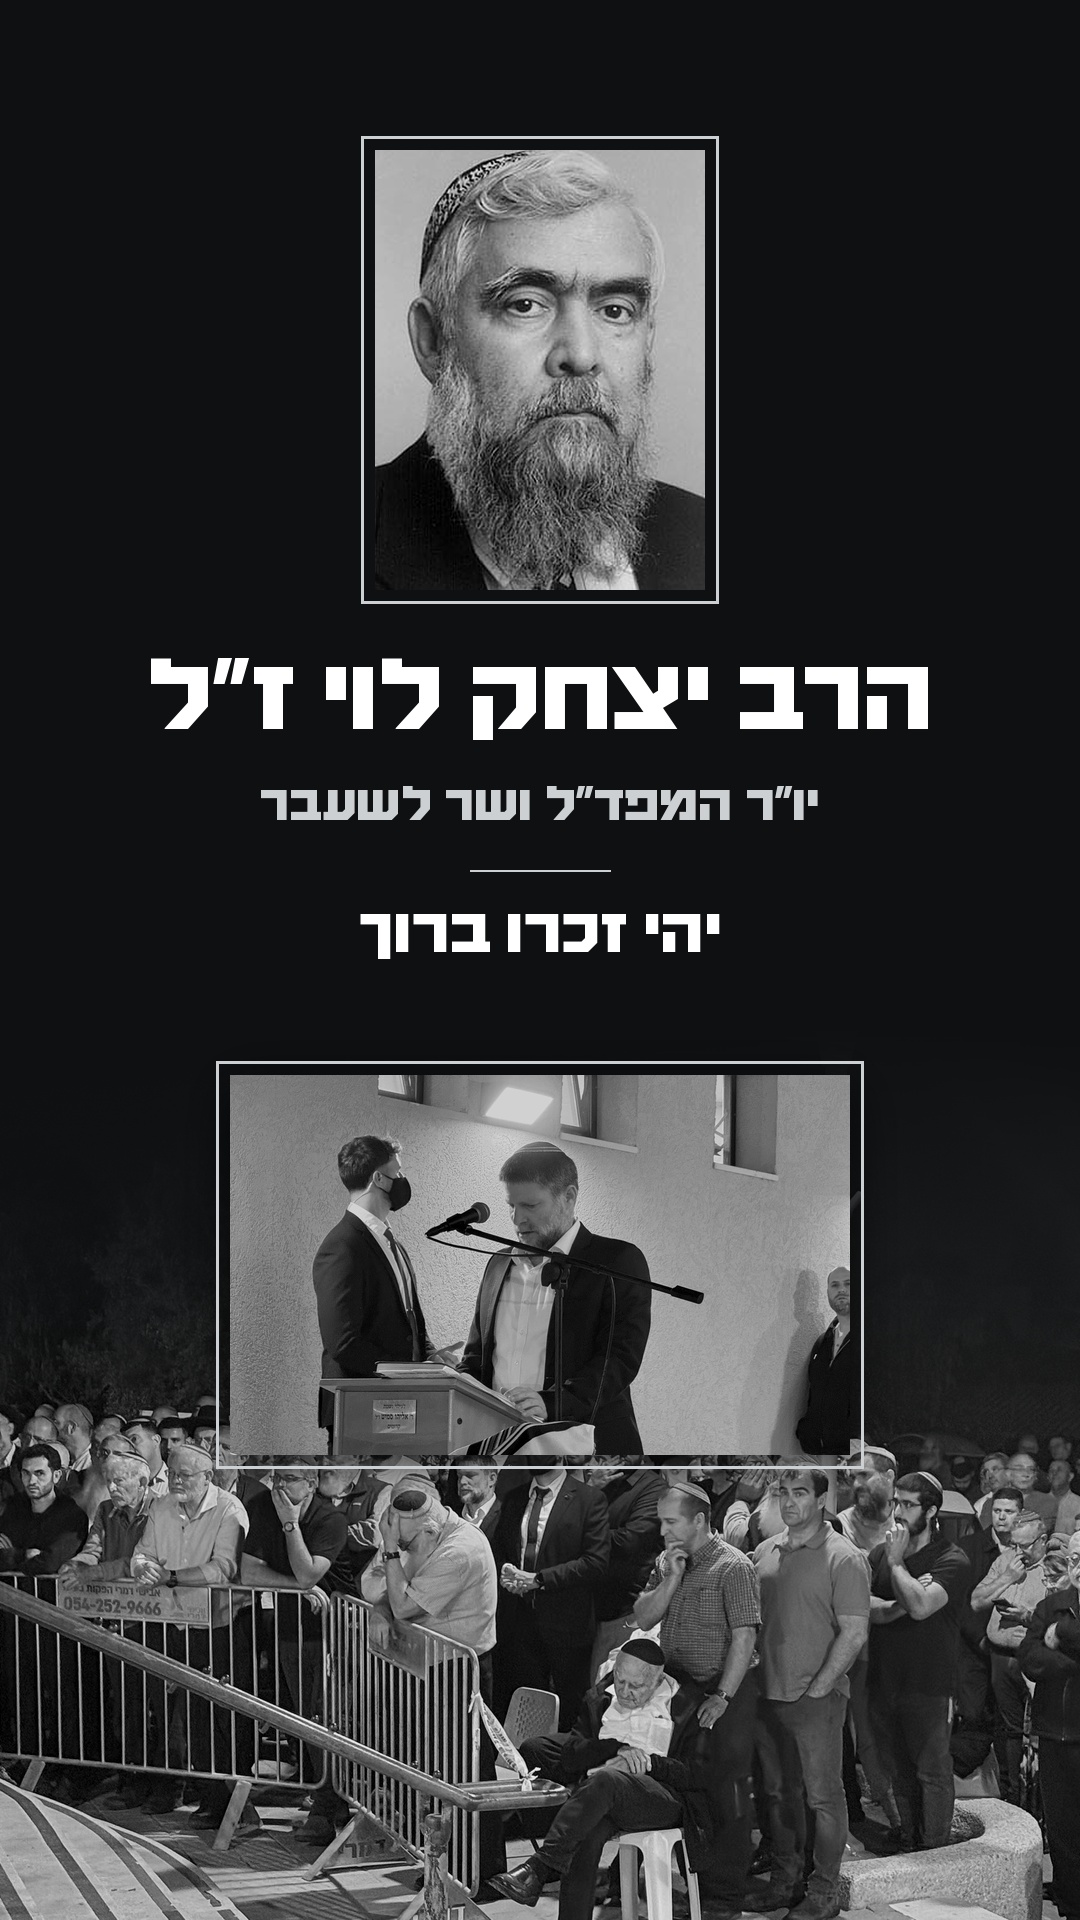
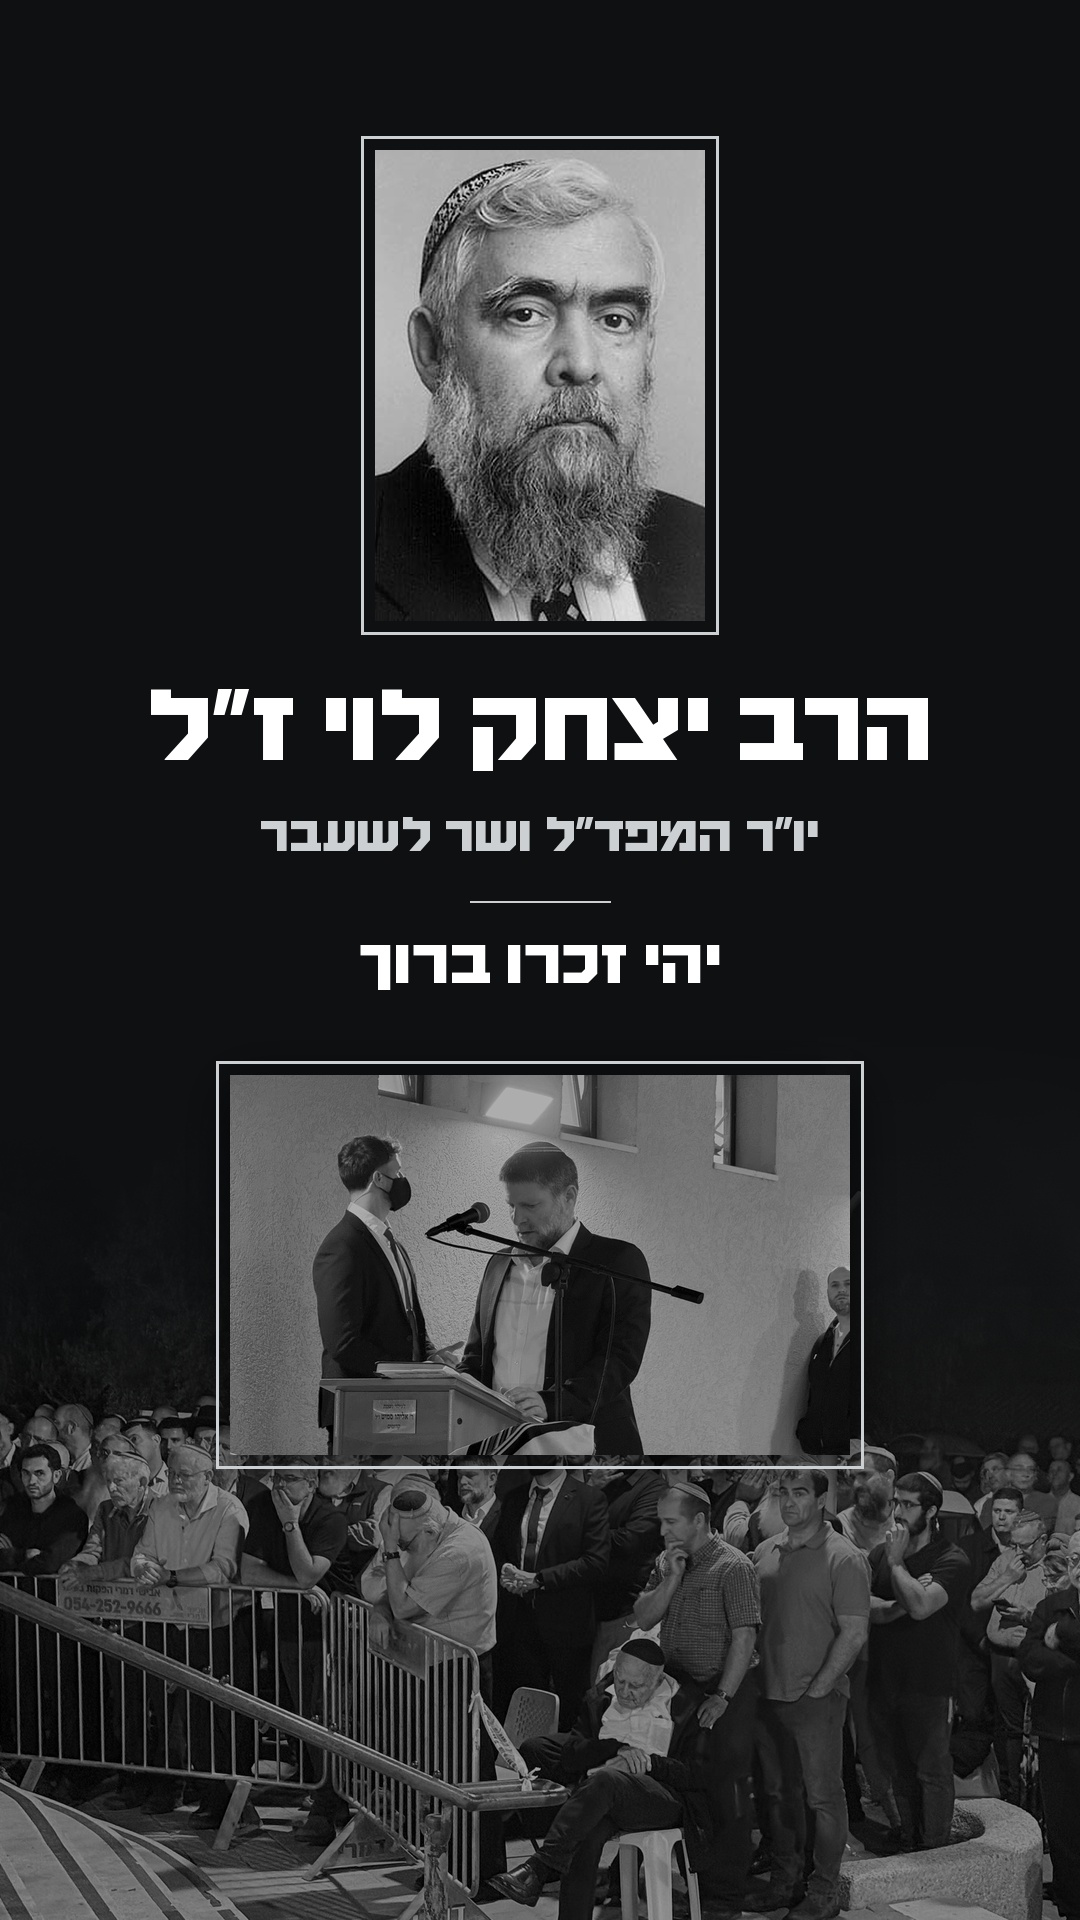
Levy story: full portrait head, dimmer bottom collage
Claude-Session: https://claude.ai/code/session_01RS3QK6pAd3YhyAuXZSJjH1

Changed region(s): [[0.0, 0.5625, 1.0, 1.0], [0.1222, 0.0625, 0.8556, 0.5312], [0.7639, 0.9062, 0.9778, 1.0]]

diff --git a/content-kit/hatzionut-hadatit/2026-11-story-rav-yitzhak-levy/make.py b/content-kit/hatzionut-hadatit/2026-11-story-rav-yitzhak-levy/make.py
@@ -8,12 +8,12 @@ def F(s): return ImageFont.truetype(HAIM, s, layout_engine=ImageFont.Layout.RAQM
 def bw(im, c=1.08, b=1.0): return ImageEnhance.Brightness(ImageEnhance.Contrast(ImageOps.grayscale(im).convert('RGB')).enhance(c)).enhance(b)
 im = Image.new('RGB', (W, H), INK)
 # bottom: the crowd full-bleed in B&W fading up into black; Smotrich at the lectern framed like the portrait, sitting on the seam
-cr = bw(Image.open(HERE + '/crowd.jpg').convert('RGB'), 1.08, .9)
+cr = bw(Image.open(HERE + '/crowd.jpg').convert('RGB'), 1.05, .62)
 CH = 900; cr = ImageOps.fit(cr, (W, CH), Image.LANCZOS, centering=(.42, .62))
 m = Image.new('L', (1, CH))
 for y in range(CH): m.putpixel((0, y), int(255 * min(1, y / 420) ** 1.5))
 im.paste(cr, (0, H - CH), m.resize((W, CH)))
-eu = bw(Image.open(HERE + '/eulogy.jpg').convert('RGB'), 1.08, .82)
+eu = bw(Image.open(HERE + '/eulogy.jpg').convert('RGB'), 1.05, .68)
 EW, EH = 620, 380; eu = ImageOps.fit(eu, (EW, EH), Image.LANCZOS, centering=(.47, .33))
 ex, ey = (W - EW) // 2, 1075
 sh = Image.new('L', (EW + 120, EH + 120), 0); ImageDraw.Draw(sh).rectangle((60, 70, 60 + EW, 70 + EH), fill=200); sh = sh.filter(ImageFilter.GaussianBlur(25))
@@ -22,7 +22,7 @@ im.paste(eu, (ex, ey))
 # portrait, framed
 pr = Image.open(HERE + '/rav-levy.jpg').convert('RGB')
 pr = pr.resize((pr.width * 2, pr.height * 2), Image.LANCZOS).filter(ImageFilter.UnsharpMask(2, 50, 2))
-pw, ph = 330, 440; pr = bw(ImageOps.fit(pr, (pw, ph), Image.LANCZOS, centering=(.5, .3)), 1.05, .95)
+pw, ph = 330, 440; src_r = pr.width / pr.height; ph = int(pw / src_r); pr = bw(pr.resize((pw, ph), Image.LANCZOS), 1.05, .95)
 px, py = (W - pw) // 2, 150
 d = ImageDraw.Draw(im)
 d.rectangle((px - 14, py - 14, px + pw + 13, py + ph + 13), outline=SOFT, width=3)
